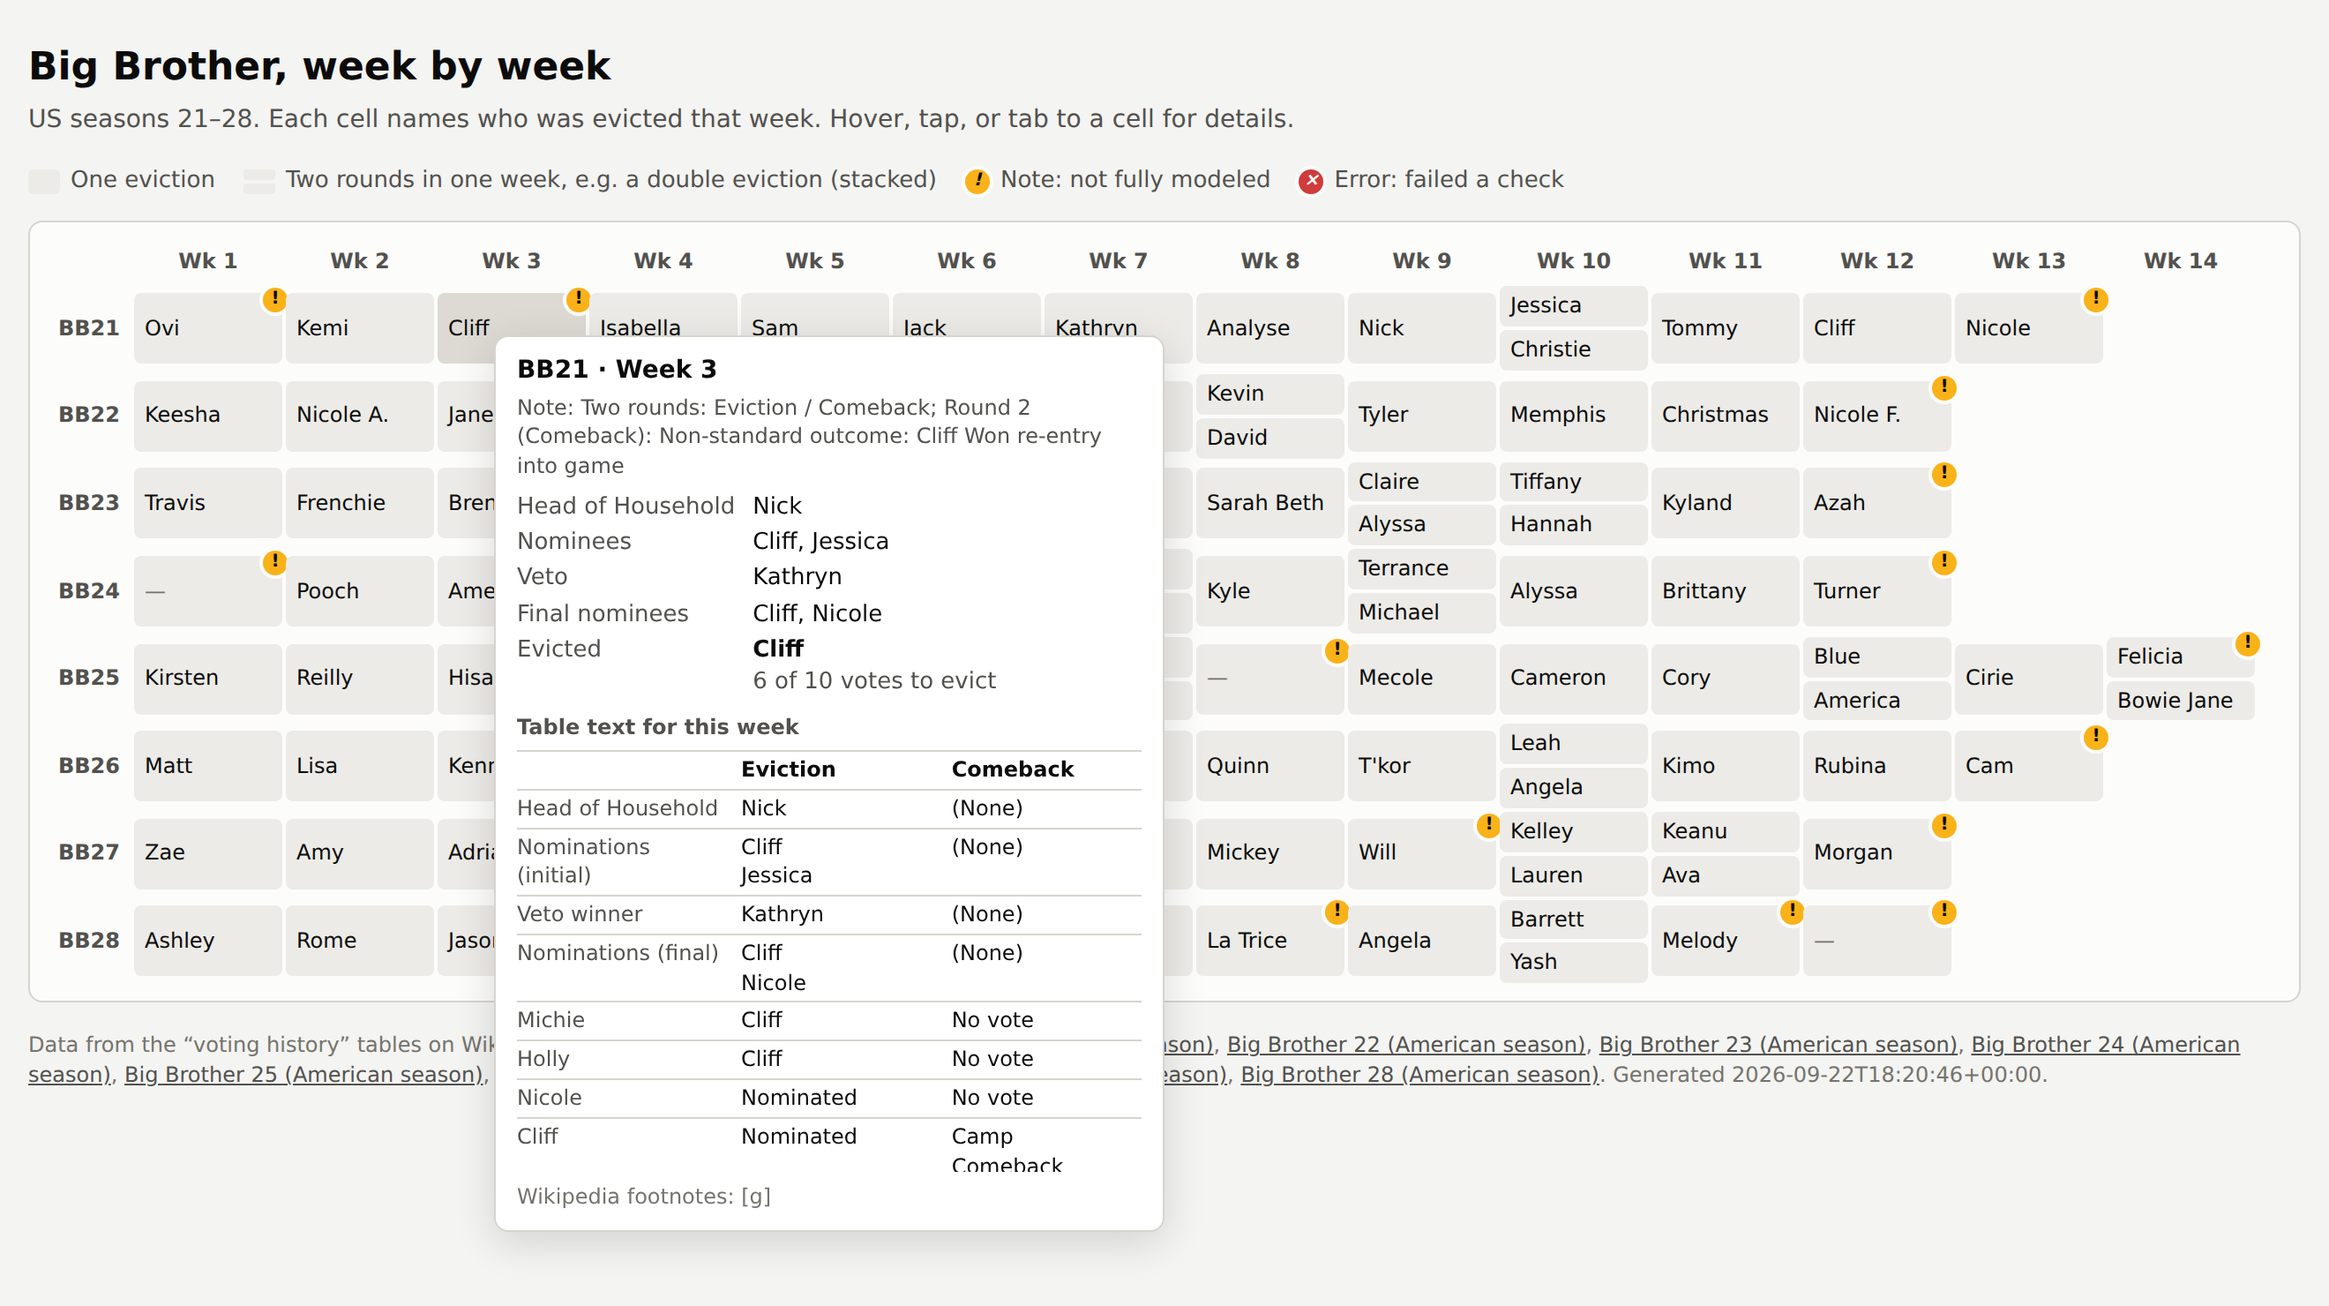
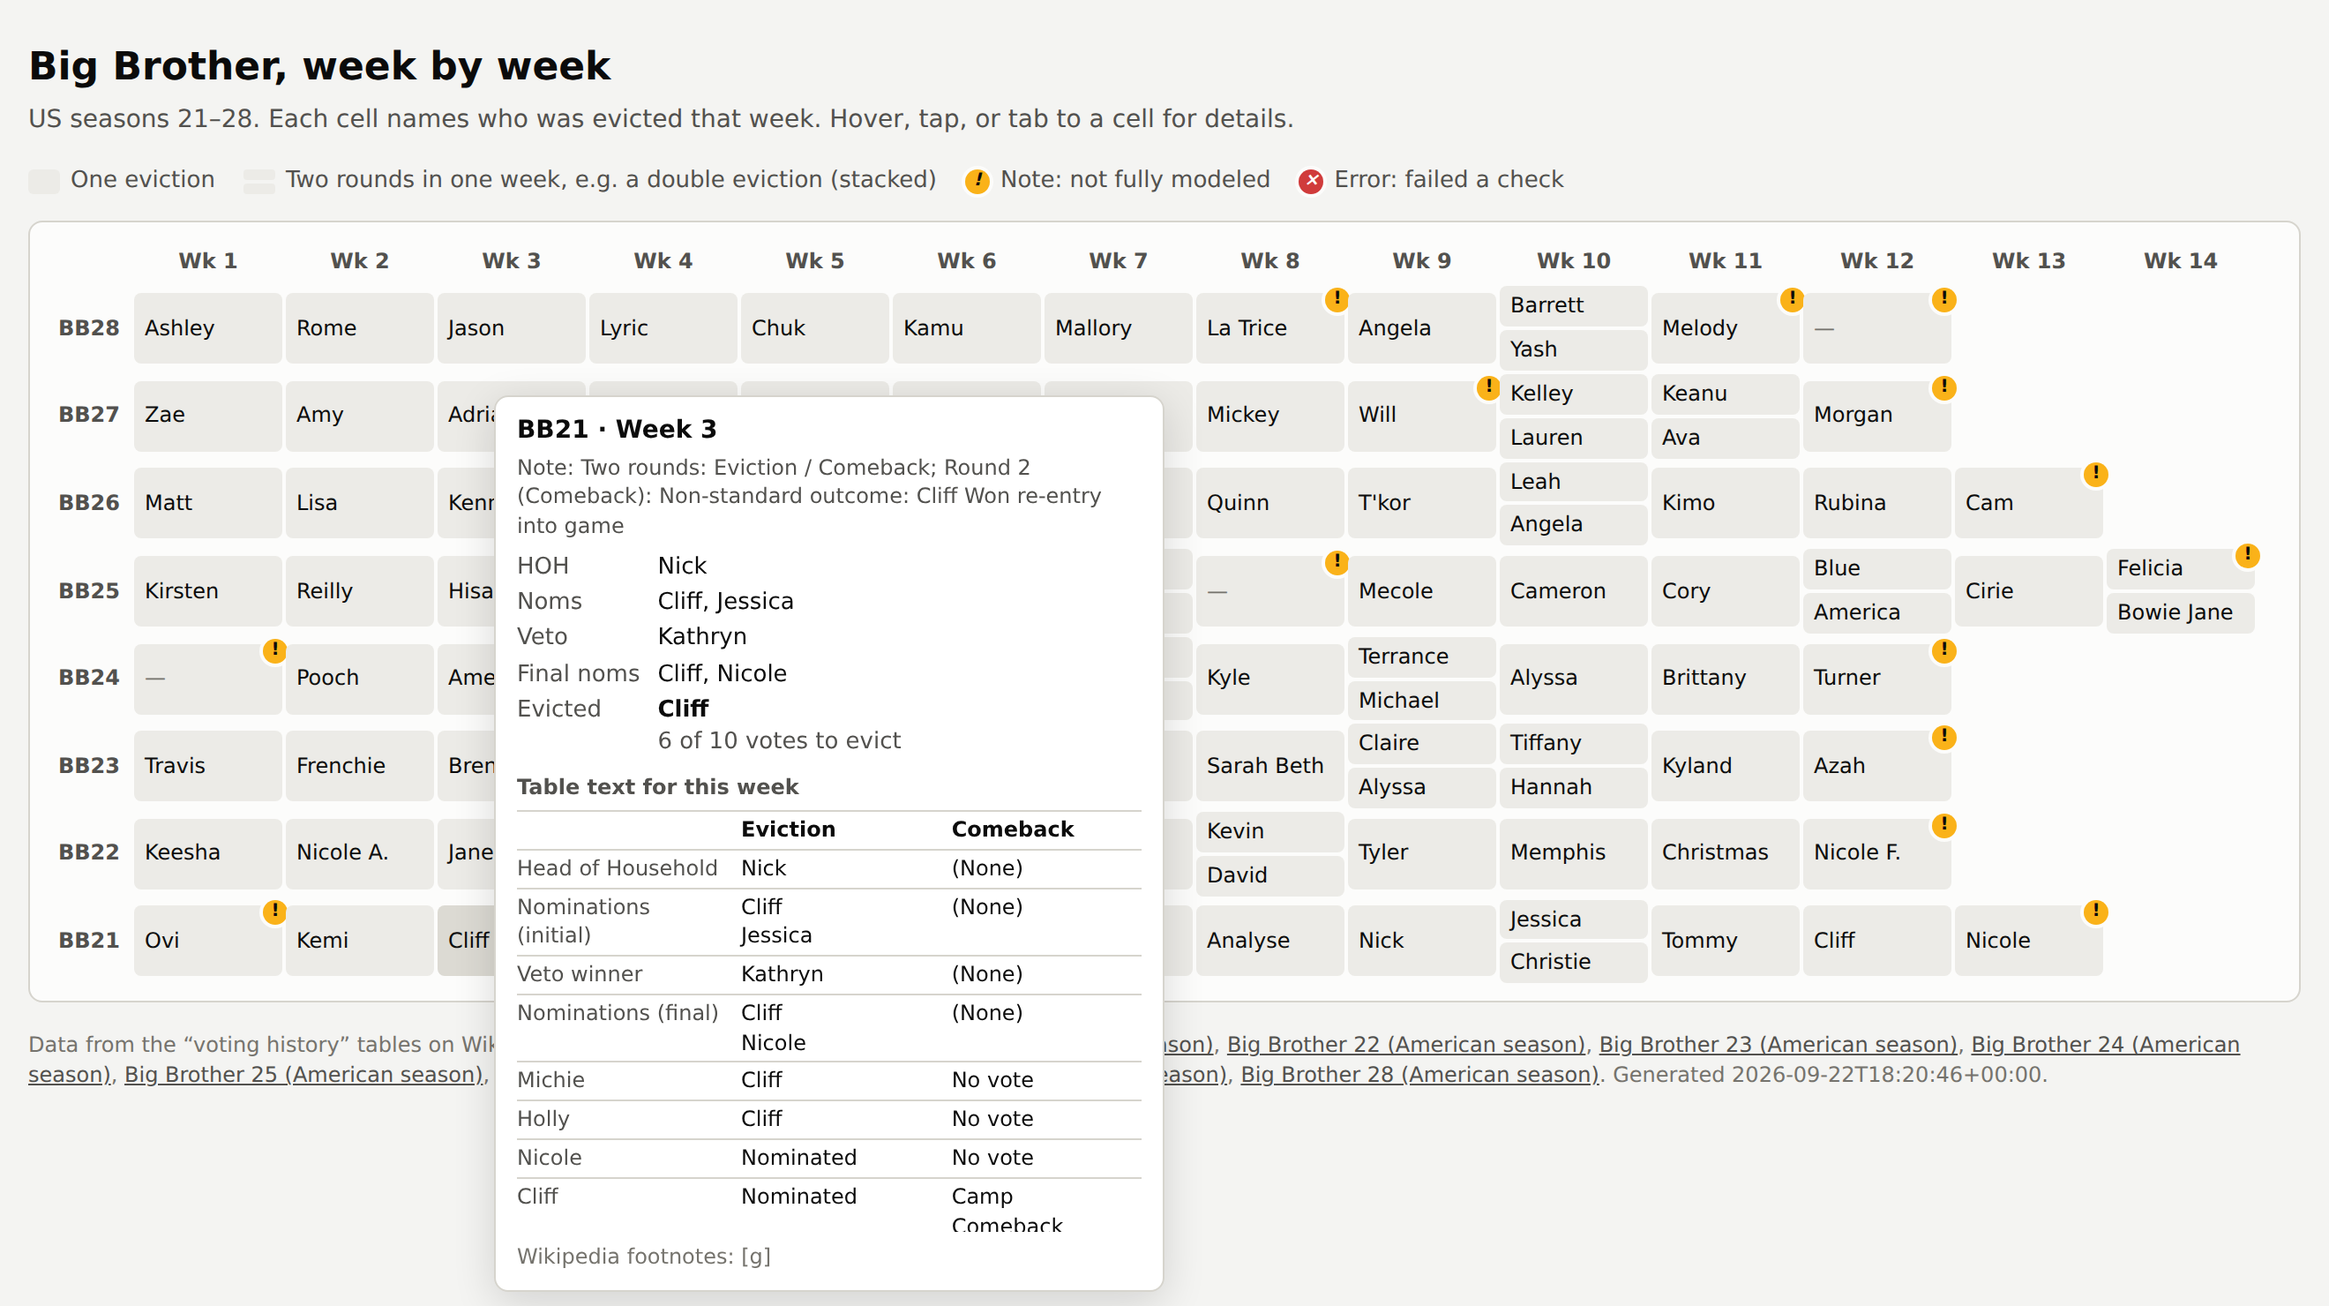
Newest season on top, HOH/noms labels, integration guide, wiki pages
- Page: sort seasons newest first so the season airing (BB28) is on top;
  tooltip labels are now HOH, Noms and Final noms; ?embed=1 hides the
  title and intro for iframes; a tapped or focused cell's tooltip opens
  below the cell instead of covering it.
- docs/integration.md: hosting (with a GitHub Pages workflow), embedding,
  the weeks.json format, and keeping the data fresh. Summarized in the
  README.
- Fetch workflow: also rebuild and commit web/weeks.json and report.txt
  when any cached page changed.
- docs/wiki/: Home and Screenshots pages ready to paste into the GitHub
  wiki, which this session can't push to.
- Screenshots retaken with the above.

Claude-Session: https://claude.ai/code/session_01RgpZbveTnkhAFcQpmJDV7L

diff --git a/web/index.html b/web/index.html
@@ -114,6 +114,9 @@ table.grid { border-collapse: separate; border-spacing: 2px; padding: 8px; }
 .msg { padding: 24px; color: var(--text-secondary); }
 footer { margin-top: 16px; color: var(--text-muted); font-size: 12px; }
 footer a { color: var(--text-secondary); }
+/* ?embed=1: drop the page's own title and intro so a host page can supply its own. */
+.embed main { padding-top: 8px; }
+.embed h1, .embed .sub { display: none; }
 .sr { position: absolute; width: 1px; height: 1px; overflow: hidden; clip: rect(0 0 0 0); }
 </style>
 </head>
@@ -132,11 +135,13 @@ footer a { color: var(--text-secondary); }
 </main>
 <div id="tip" role="tooltip"></div>
 <script>
+if (new URLSearchParams(location.search).has("embed")) document.documentElement.classList.add("embed");
+
 const FIELDS = [
-  ["hoh", "Head of Household"],
-  ["nominees_initial", "Nominees"],
+  ["hoh", "HOH"],
+  ["nominees_initial", "Noms"],
   ["veto_winners", "Veto"],
-  ["nominees_final", "Final nominees"],
+  ["nominees_final", "Final noms"],
 ];
 
 const esc = s => String(s ?? "").replace(/[&<>"']/g, c => ({"&":"&amp;","<":"&lt;",">":"&gt;",'"':"&quot;","'":"&#39;"}[c]));
@@ -182,7 +187,8 @@ function cellLabel(w) {
 
 function render(data) {
   const weeks = data.weeks;
-  const seasons = [...new Set(weeks.map(w => w.season))].sort((a, b) => a - b);
+  // Newest season first, so the season currently airing is on top.
+  const seasons = [...new Set(weeks.map(w => w.season))].sort((a, b) => b - a);
   // Columns keyed by week label as Wikipedia shows it; numbered weeks first, in order.
   const labels = [];
   for (const w of [...weeks].sort((a, b) => (a.week ?? 1e9) - (b.week ?? 1e9))) {
@@ -228,11 +234,20 @@ function wireTooltip(weeks) {
     tip.innerHTML = tipHtml(weeks[+btn.dataset.i]);
     tip.style.display = "block";
     const r = btn.getBoundingClientRect();
-    const px = x ?? r.right, py = y ?? r.top;
     const tw = tip.offsetWidth, th = tip.offsetHeight;
-    let left = px + 12, top = py + 12;
-    if (left + tw > innerWidth - 8) left = Math.max(8, px - tw - 12);
-    if (top + th > innerHeight - 8) top = Math.max(8, innerHeight - th - 8);
+    let left, top;
+    if (x != null) {
+      // Mouse: follow the pointer, flipping left/up at the viewport edges.
+      left = x + 12; top = y + 12;
+      if (left + tw > innerWidth - 8) left = Math.max(8, x - tw - 12);
+      if (top + th > innerHeight - 8) top = Math.max(8, innerHeight - th - 8);
+    } else {
+      // Tap or keyboard focus: sit below the cell (above if no room) so it stays visible.
+      left = Math.min(Math.max(8, r.left), innerWidth - tw - 8);
+      top = r.bottom + 6;
+      if (top + th > innerHeight - 8) top = r.top - th - 6;
+      if (top < 8) top = Math.max(8, innerHeight - th - 8);
+    }
     tip.style.left = left + "px"; tip.style.top = top + "px";
   };
   const hide = () => { tip.style.display = "none"; };

diff --git a/docs/integration.md b/docs/integration.md
@@ -1,0 +1,169 @@
+# Integrating the week grid
+
+There are three ways to use this project from somewhere else: host the page, embed the page
+in another site, or read the data yourself. All three rely on the two files in `web/`:
+
+| File | What it is |
+|---|---|
+| `web/index.html` | The page. One self-contained file with no dependencies, which loads `weeks.json` from next to itself. |
+| `web/weeks.json` | The data: one record per season-week, plus source and attribution info. |
+
+Keeping `weeks.json` up to date is covered at the end.
+
+## 1. Host the page
+
+Any static host works. Serve `index.html` and `weeks.json` from the same folder over HTTP.
+Opening the file directly (`file://`) won't work, because the browser blocks it from
+loading `weeks.json`.
+
+**GitHub Pages.** The simplest way is to publish the `web/` folder with a Pages workflow:
+
+1. In the repo, open **Settings → Pages** and set **Source** to **GitHub Actions**.
+2. Add `.github/workflows/pages.yml`:
+
+   ```yaml
+   name: Publish page
+   on:
+     push:
+       branches: [main]
+       paths: [web/**]
+     # Commits made by the fetch workflow don't trigger push events,
+     # so also redeploy whenever a fetch run finishes.
+     workflow_run:
+       workflows: ["Fetch Wikipedia pages"]
+       types: [completed]
+       branches: [main]
+     workflow_dispatch:
+   permissions:
+     pages: write
+     id-token: write
+   jobs:
+     deploy:
+       runs-on: ubuntu-latest
+       environment: github-pages
+       steps:
+         - uses: actions/checkout@v4
+           with:
+             ref: main
+         - uses: actions/upload-pages-artifact@v3
+           with:
+             path: web
+         - uses: actions/deploy-pages@v4
+   ```
+
+3. The page is then at `https://<user>.github.io/BigBrotherDataFromWiki/`.
+
+Change `main` to whichever branch you publish from.
+
+**Any other static host** (Netlify, Cloudflare Pages, S3, your own server): upload
+`web/index.html` and `web/weeks.json` together.
+
+**Locally:** `python -m http.server -d web`, then open http://localhost:8000.
+
+## 2. Embed it in another page
+
+Add `?embed=1` to hide the page's own title and intro, so it sits inside your layout:
+
+```html
+<iframe
+  src="https://<user>.github.io/BigBrotherDataFromWiki/?embed=1"
+  title="Big Brother week-by-week grid"
+  style="width: 100%; height: 560px; border: 0;"
+  loading="lazy"></iframe>
+```
+
+- **Height.** About 560px fits all eight seasons with the legend. The grid scrolls
+  sideways inside the frame on narrow screens.
+- **Theme.** The page follows the viewer's light/dark setting.
+- **Attribution.** The Wikipedia credit line stays visible in embed mode. It's needed
+  for the CC BY-SA license, so don't hide it.
+
+## 3. Use the data directly
+
+Read `weeks.json` from wherever you host it, or straight from the repo:
+
+```
+https://raw.githubusercontent.com/christopherbholland/BigBrotherDataFromWiki/<branch>/web/weeks.json
+```
+
+(The raw URL only works without a login if the repo is public.)
+
+The file has this shape:
+
+```jsonc
+{
+  "generated_at": "2026-09-22T18:20:46+00:00",
+  "license": "Wikipedia content, CC BY-SA 4.0",
+  "sources": [
+    { "season": 26, "title": "Big Brother 26 (American season)",
+      "url": "https://en.wikipedia.org/wiki/…", "revid": 1234, "fetched_at": "…",
+      "permalink": "https://en.wikipedia.org/w/index.php?oldid=1234" }
+  ],
+  "weeks": [
+    {
+      "season": 26, "week": 10, "week_label": "Week 10",
+      "status": "ok",                  // "ok" | "note" | "error"
+      "note": "Double eviction",       // why it isn't plain; null for an ordinary week
+      "rounds": [
+        {
+          "sub_label": "Day 67",       // null for a one-round week
+          "hoh": ["Makensy"],          // every name field is a list
+          "nominees_initial": ["Angela", "Kimo"],
+          "veto_winners": ["Makensy"],
+          "nominees_final": ["Angela", "Leah"],
+          "evicted": "Leah",
+          "tally": { "type": "vote", "votes_to_evict": 4, "votes_cast": 4 },
+          // or { "type": "sole_vote", "by": "Makensy" }
+          "extras": { "AI Arena winner": ["Kimo"] }   // twist rows, keyed by table label
+        }
+      ],
+      "raw": null,                     // for note/error weeks: the week's table text
+      "footnotes": ["c"]               // Wikipedia footnote markers in the week's cells
+    }
+  ]
+}
+```
+
+Things to know:
+
+- **`rounds` can be empty or partial.** A `note` week may leave out rounds it can't
+  model: a twist, a week still airing, or a Finale column. `note` explains why, and
+  `raw` has the table text.
+- **`raw` shape.** `{columns: [...], rows: [{label, cells: [...]}]}`, with one cell per
+  sub-column.
+- **Week keys.** `week` is the number from the table header; `week_label` is the header
+  text as shown.
+- **Attribution.** If you publish anything built on this data, credit Wikipedia under
+  CC BY-SA 4.0 and link the source pages. They're in `sources`, with `permalink` pointing
+  at the exact revision used.
+
+Example: every HOH in BB26.
+
+```js
+const data = await (await fetch("weeks.json")).json();
+const hohs = data.weeks
+  .filter(w => w.season === 26)
+  .flatMap(w => w.rounds.map(r => `${w.week_label}: ${r.hoh.join(" & ")}`));
+```
+
+## Keeping it up to date
+
+The **Fetch Wikipedia pages** GitHub Action refetches the pages. If any page changed, it
+rebuilds `web/weeks.json` and `report.txt` and commits them. To run it from a phone or
+browser:
+
+1. Open the repo's **Actions** tab and choose **Fetch Wikipedia pages**. (GitHub only
+   shows the **Run workflow** button once the workflow file is on the repo's default
+   branch. Until then, it runs when `seasons.yaml` or the workflow file changes.)
+2. Tap **Run workflow**. Pick the branch, and optionally enter season numbers (e.g. `28`).
+   Leave it blank to fetch all seasons.
+
+If you host with the Pages workflow above, it redeploys after every fetch run.
+
+After a refresh, read `report.txt` for new `note`/`error` weeks. The snapshot tests
+(`tests/snapshots/`) will fail on any week whose data changed. That's expected after new
+episodes: review the diff, then accept it with
+`UPDATE_SNAPSHOTS=1 pytest tests/test_snapshots.py`.
+
+To add a season, add a line to `seasons.yaml` and push. The workflow runs automatically
+when that file changes.

diff --git a/README.md b/README.md
@@ -1,8 +1,8 @@
 # BigBrotherDataFromWiki
 
 A week-by-week grid of US Big Brother seasons 21–28. Each cell is one week of one season.
-Hovering shows that week's HOH, nominees, veto winner(s), final nominees, who was evicted,
-and the vote tally. The data comes from the "Voting history" table on each season's
+Hovering shows that week's HOH, noms, veto winner(s), final noms, who was evicted, and the
+vote tally. The season currently airing (BB28) is on top. The data comes from the "Voting history" table on each season's
 Wikipedia page.
 
 ```
@@ -18,7 +18,10 @@ Wikipedia API -> fetch -> cache/ -> grid builder -> interpreter -> validator/exp
 | 4. Validator + exporter | `bbgrid/validate.py`, `bbgrid/export.py` | checks each round, writes the outputs |
 | 5. Web page | `web/index.html` | static page that reads `weeks.json` |
 
-Implementation choices and open assumptions are in `docs/implementation-notes.md`.
+- **Hosting, embedding, or using the data elsewhere:** see
+  [`docs/integration.md`](docs/integration.md).
+- **Implementation choices and what the real tables showed:** see
+  [`docs/implementation-notes.md`](docs/implementation-notes.md).
 
 ## Screenshots
 
@@ -41,8 +44,8 @@ modeled, and the Camp Comeback column (Cliff winning re-entry) is flagged:
 
 ![Light-mode grid with the BB21 Week 3 note tooltip and raw table text](docs/screenshots/grid-note.png)
 
-**Phone.** The grid scrolls sideways with the season labels pinned, and tapping a cell
-pins its details. BB26 Week 3 had two veto winners and the AI Arena twist:
+**Phone.** The grid scrolls sideways with the season labels pinned. Tapping a cell opens
+its details just below it. BB26 Week 3 had two veto winners and the AI Arena twist:
 
 <img src="docs/screenshots/mobile-week.png" alt="Phone-width view with the BB26 Week 3 tooltip" width="390">
 
@@ -64,6 +67,25 @@ pytest
 `report.txt` lists every week that isn't `ok`. It's the main acceptance check.
 
 To add a season, add a line to `seasons.yaml`.
+
+## Integrating
+
+The page is one static HTML file plus `weeks.json`, so it can go anywhere:
+
+- **Host it** on GitHub Pages or any static host. Serve `web/` over HTTP.
+- **Embed it** in another site with an iframe; `?embed=1` hides the page's title:
+  ```html
+  <iframe src="https://<user>.github.io/BigBrotherDataFromWiki/?embed=1"
+          title="Big Brother week-by-week grid"
+          style="width:100%;height:560px;border:0" loading="lazy"></iframe>
+  ```
+- **Use the data**: `web/weeks.json` has one record per season-week, with every field
+  documented.
+- **Keep it fresh** by running the **Fetch Wikipedia pages** action. It refetches the
+  pages, rebuilds `weeks.json`, and commits the changes.
+
+Step-by-step instructions, including a ready-made GitHub Pages workflow and the full data
+format, are in [`docs/integration.md`](docs/integration.md).
 
 ## Tests
 

diff --git a/docs/wiki/Screenshots.md b/docs/wiki/Screenshots.md
@@ -1,0 +1,31 @@
+# Screenshots
+
+All screenshots use the real data for BB21–BB28, fetched from Wikipedia on 2026-09-22.
+
+## Double eviction
+
+BB26 Week 10's two rounds are stacked in both the cell and the tooltip.
+
+![Light-mode grid with the BB26 Week 10 double-eviction tooltip](https://github.com/christopherbholland/BigBrotherDataFromWiki/blob/main/docs/screenshots/grid-double-eviction.png?raw=true)
+
+## Two rounds that aren't a double eviction
+
+BB24 Week 7 was the split house, with separate "Inside" and "Outside" evictions. Both are
+modeled, and the note names the columns instead of calling it a double eviction. Dark mode:
+
+![Dark-mode grid with the BB24 Week 7 tooltip](https://github.com/christopherbholland/BigBrotherDataFromWiki/blob/main/docs/screenshots/grid-split-house-dark.png?raw=true)
+
+## Twist weeks
+
+Weeks marked `!` aren't fully modeled. The tooltip gives the reason and the week's table
+text as Wikipedia shows it. In BB21 Week 3 the regular eviction is modeled, and the Camp
+Comeback column (Cliff winning re-entry) is flagged.
+
+![Light-mode grid with the BB21 Week 3 note tooltip](https://github.com/christopherbholland/BigBrotherDataFromWiki/blob/main/docs/screenshots/grid-note.png?raw=true)
+
+## Phone
+
+The grid scrolls sideways with the season labels pinned. Tapping a cell opens its details
+just below it.
+
+<img src="https://github.com/christopherbholland/BigBrotherDataFromWiki/blob/main/docs/screenshots/mobile-week.png?raw=true" alt="Phone view with the BB26 Week 3 tooltip" width="390">

diff --git a/docs/wiki/Home.md b/docs/wiki/Home.md
@@ -1,0 +1,14 @@
+# Big Brother, week by week
+
+A week-by-week grid of US Big Brother seasons 21–28, built from the "Voting history" tables
+on Wikipedia. Each cell names who was evicted that week. Hovering or tapping a cell shows
+the HOH, noms, veto winner(s), final noms, who was evicted, and the vote tally. The season
+currently airing (BB28) is on top.
+
+- [[Screenshots]]
+- [Integration guide](https://github.com/christopherbholland/BigBrotherDataFromWiki/blob/main/docs/integration.md): host the page, embed it, or use the data
+- [README](https://github.com/christopherbholland/BigBrotherDataFromWiki/blob/main/README.md): how the pipeline works and how to run it
+
+![The week grid with BB26 Week 10's double eviction open](https://github.com/christopherbholland/BigBrotherDataFromWiki/blob/main/docs/screenshots/grid-double-eviction.png?raw=true)
+
+Data from Wikipedia, used under CC BY-SA 4.0.

diff --git a/docs/wiki/README.md b/docs/wiki/README.md
@@ -1,0 +1,12 @@
+# Wiki pages
+
+These files are the source for the repo's GitHub wiki. The wiki is a separate git repo that
+the Claude session can't push to, so publish them by hand:
+
+1. Turn on the wiki: **Settings → General → Features → Wikis**.
+2. Open the **Wiki** tab and create the first page. Title it `Home` and paste `Home.md`.
+3. Add a page titled `Screenshots` and paste `Screenshots.md`.
+
+Images are linked from the repo's `main` branch (`docs/screenshots/`), so they show up once
+this work is merged into `main`. If you publish from a different branch, replace `/main/`
+in the links.
